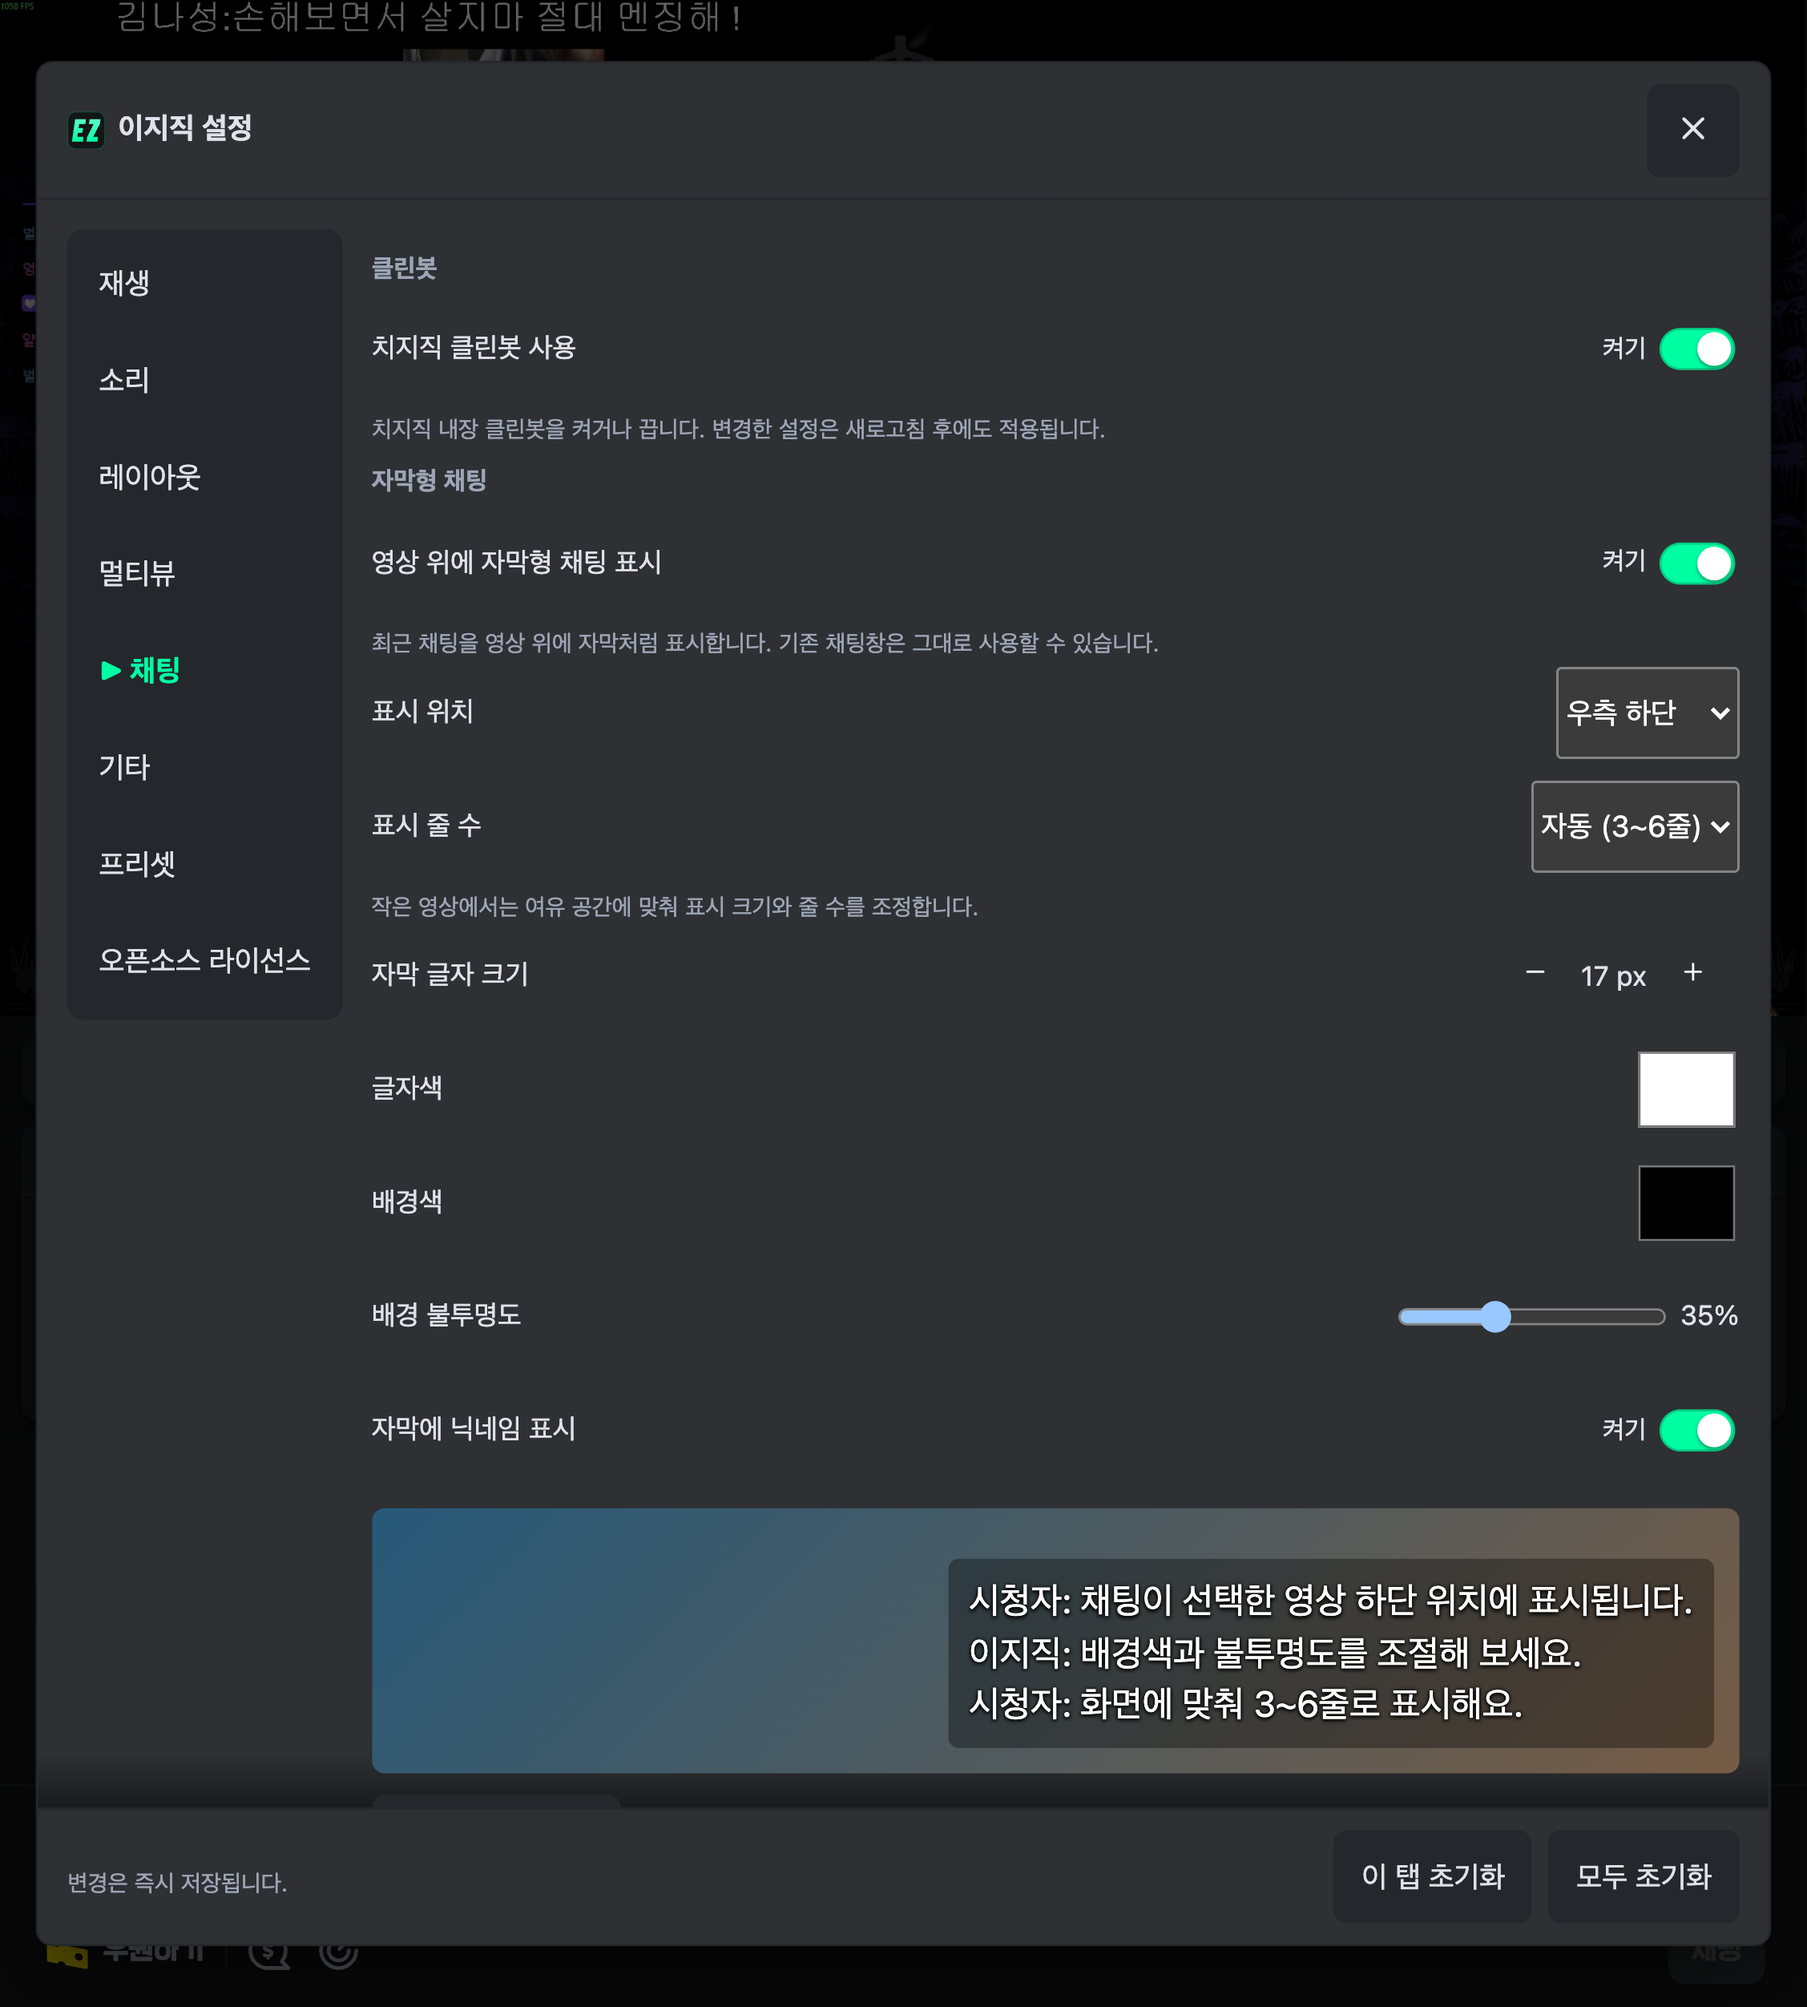
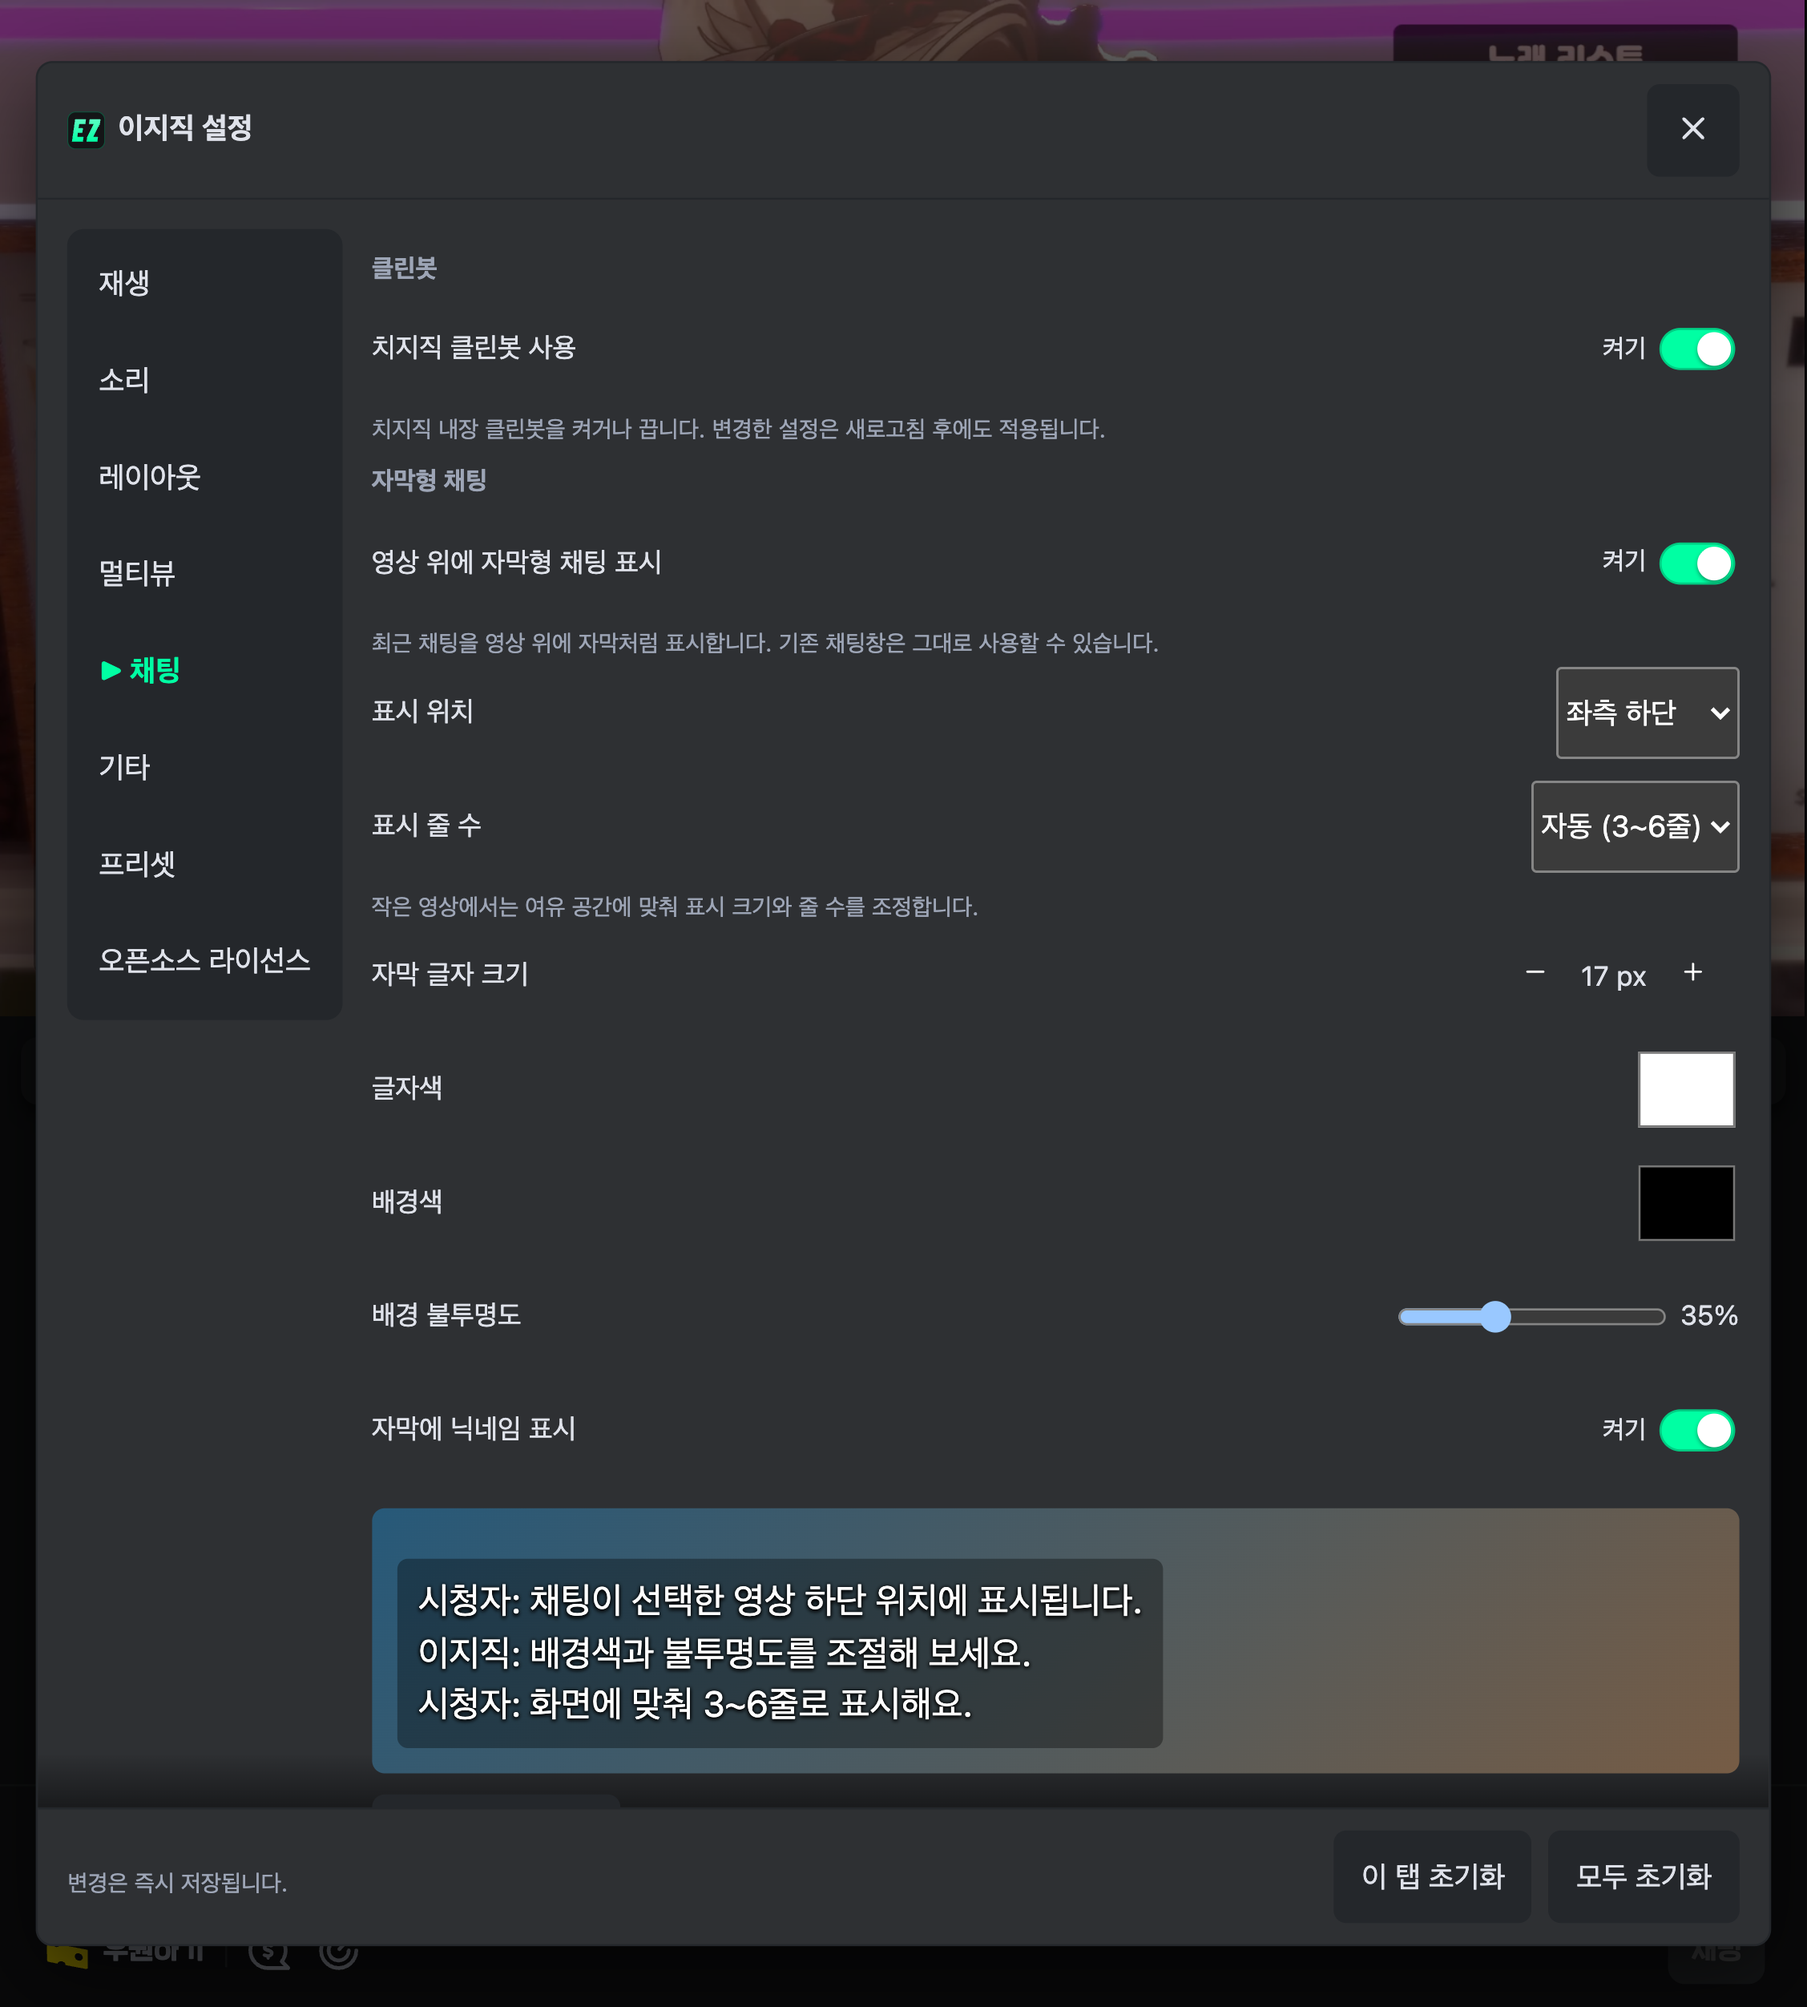
fix: 채팅 오버레이 기본 위치를 좌측 하단으로 변경

Changed region(s): [[0.0, 0.0, 1.0, 0.5296], [0.2173, 0.7788, 0.9623, 0.8722]]

diff --git a/src/features/chatSubtitle.test.ts b/src/features/chatSubtitle.test.ts
@@ -36,10 +36,10 @@ describe('자막형 채팅 저장값과 크기', () => {
     expect(subtitleSettings().enabled).toBe(false);
   });
 
-  it('저장값에 위치가 없으면 우측 하단을 적용하고 세 위치 모두 영상 안에 배치한다', () => {
-    expect(subtitleSettings().position).toBe('right');
-    expect(mergeSettings({ chatSubtitle: { enabled: true } }).chatSubtitle.position).toBe('right');
-    expect(subtitleSettings({ position: 'invalid' as 'right' }).position).toBe('right');
+  it('저장값에 위치가 없으면 좌측 하단을 적용하고 세 위치 모두 영상 안에 배치한다', () => {
+    expect(subtitleSettings().position).toBe('left');
+    expect(mergeSettings({ chatSubtitle: { enabled: true } }).chatSubtitle.position).toBe('left');
+    expect(subtitleSettings({ position: 'invalid' as 'right' }).position).toBe('left');
     for (const width of [320, 859, 1440]) {
       const left = subtitleGeometry(width, 480, subtitleSettings({ position: 'left' }));
       const center = subtitleGeometry(width, 480, subtitleSettings({ position: 'center' }));

diff --git a/src/features/chatSubtitle.ts b/src/features/chatSubtitle.ts
@@ -23,7 +23,10 @@ export function subtitleSettings(value?: Partial<SubtitleSettings>): SubtitleSet
     typeof value === 'string' && /^#[\da-f]{6}$/i.test(value) ? value : fallback;
   return {
     enabled: value?.enabled === true,
-    position: value?.position === 'left' || value?.position === 'center' ? value.position : 'right',
+    position:
+      value?.position === 'right' || value?.position === 'center'
+        ? value.position
+        : defaults.position,
     lines: [0, 3, 4, 5, 6].includes(value?.lines ?? -1) ? value!.lines! : 0,
     fontPx: bounded(value?.fontPx, defaults.fontPx, 12, 28),
     textColor: color(value?.textColor, defaults.textColor),

diff --git a/src/settingsPanel/ChatSubtitleOptions.test.tsx b/src/settingsPanel/ChatSubtitleOptions.test.tsx
@@ -35,7 +35,7 @@ describe('자막형 채팅 설정', () => {
     });
     expect(latest.chatSubtitle.lines).toBe(6);
     const position = host.querySelector<HTMLSelectElement>('#cm-subtitle-position')!;
-    expect(position.value).toBe('right');
+    expect(position.value).toBe('left');
     for (const value of ['left', 'center', 'right']) {
       act(() => {
         position.value = value;

diff --git a/src/constants/storage.ts b/src/constants/storage.ts
@@ -269,7 +269,7 @@ export const DEFAULT_SETTINGS: Settings = {
   chatFont: { sidePx: CHAT_FONT_RANGE.side.default, slotPx: CHAT_FONT_RANGE.slot.default },
   chatSubtitle: {
     enabled: false,
-    position: 'right',
+    position: 'left',
     lines: 0,
     fontPx: 16,
     textColor: '#ffffff',

diff --git a/screenshots/chat-subtitle.md b/screenshots/chat-subtitle.md
@@ -4,7 +4,7 @@
 
 [유튜브 자막 설정](https://support.google.com/youtube/answer/100078?hl=ko)의 배경색·불투명도·글자색·크기 구성을 참고했다.
 
-- **표시 위치:** 좌측 하단·가운데 하단·우측 하단 중 선택. 기본값은 우측 하단.
+- **표시 위치:** 좌측 하단·가운데 하단·우측 하단 중 선택. 기본값은 좌측 하단.
 - **표시 줄 수:** 자동(영상 공간에 따라 3~6줄), 또는 3·4·5·6줄 선택.
 - **글자 크기:** 12~28px. 작은 영상에서는 들어갈 수 있는 크기와 줄 수로 조정한다.
 - **글자색·배경색:** 색상 선택기로 조절한다.
@@ -16,6 +16,8 @@
 
 표시할 채팅이 없으면 자막을 숨긴다. 메시지를 별도로 저장하거나 전송하지 않는다.
 
+기본 위치는 좌측 하단이며 저장된 위치는 유지한다. 폴드 일반·설정 캡처는 새 기본 위치로 갱신했고, 나머지 캡처는 선택 가능한 우측 하단 배치를 보여준다.
+
 기본 배경 불투명도 30%로 아래 시청 화면을 갱신했다. 설정 화면은 변경·저장 검증을 위해 불투명도를 35%로 조절한 상태다.
 
 ## 실제 방송 검증
@@ -23,7 +25,7 @@
 2026-10-28 확장을 로드한 Chromium에서 실제 치지직 방송과 채팅을 캡처했다. 모바일·폴드 프로필은 터치 입력과 데스크톱 사이트 모드를 에뮬레이션한 참조 뷰포트다.
 
 - 채팅 표시 순서와 최신 메시지 반영, 3~6줄 범위, 영상 내부 배치 확인.
-- 실제 설정 UI로 좌측·가운데·우측 하단 전환 및 우측 하단 저장 확인.
+- 실제 설정 UI로 좌측·가운데·우측 하단 전환 및 좌측 하단 저장 확인.
 - 실제 설정 UI로 글자 크기 17px·불투명도 35% 변경 → 끄기·켜기 → 새로고침 후 유지 확인.
 - 아이콘으로 끄기·켜기 시 표시 상태와 저장값 동기화, 재생 클릭 전파 차단, 컨트롤바 재생성 후 복원 확인.
 - 전체화면에서도 자막이 fullscreen 요소 내부에 표시되는지 확인.
